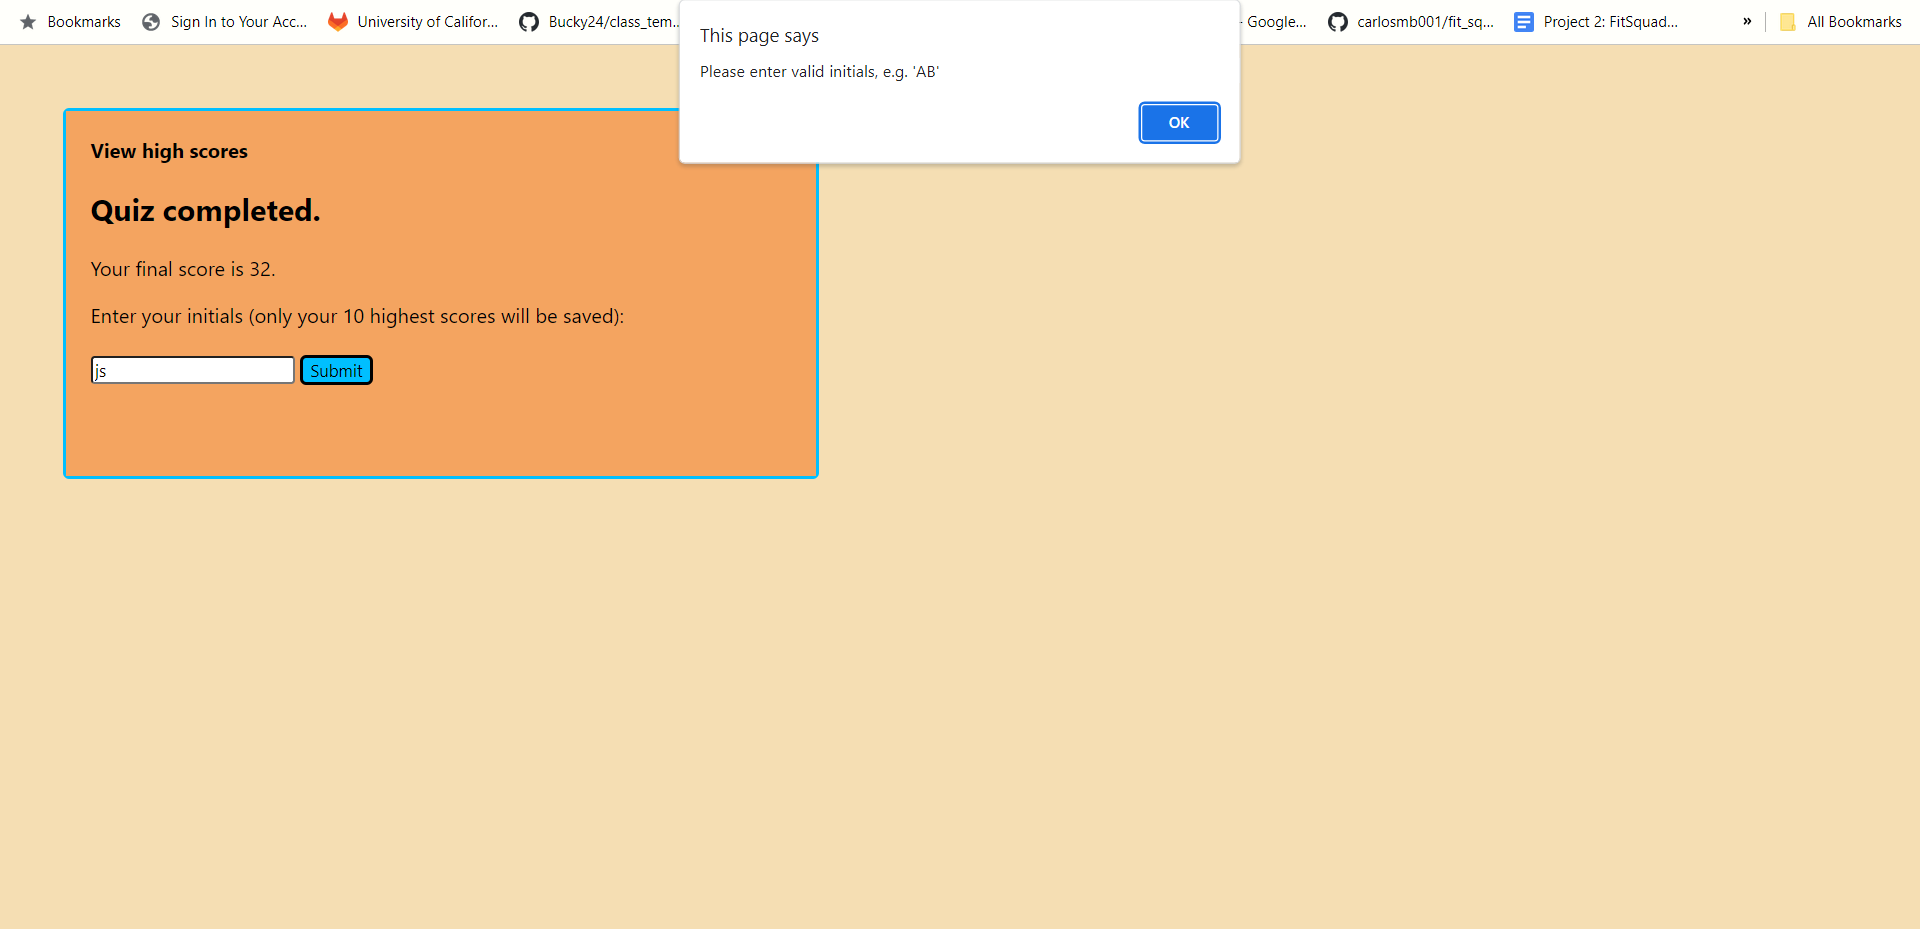
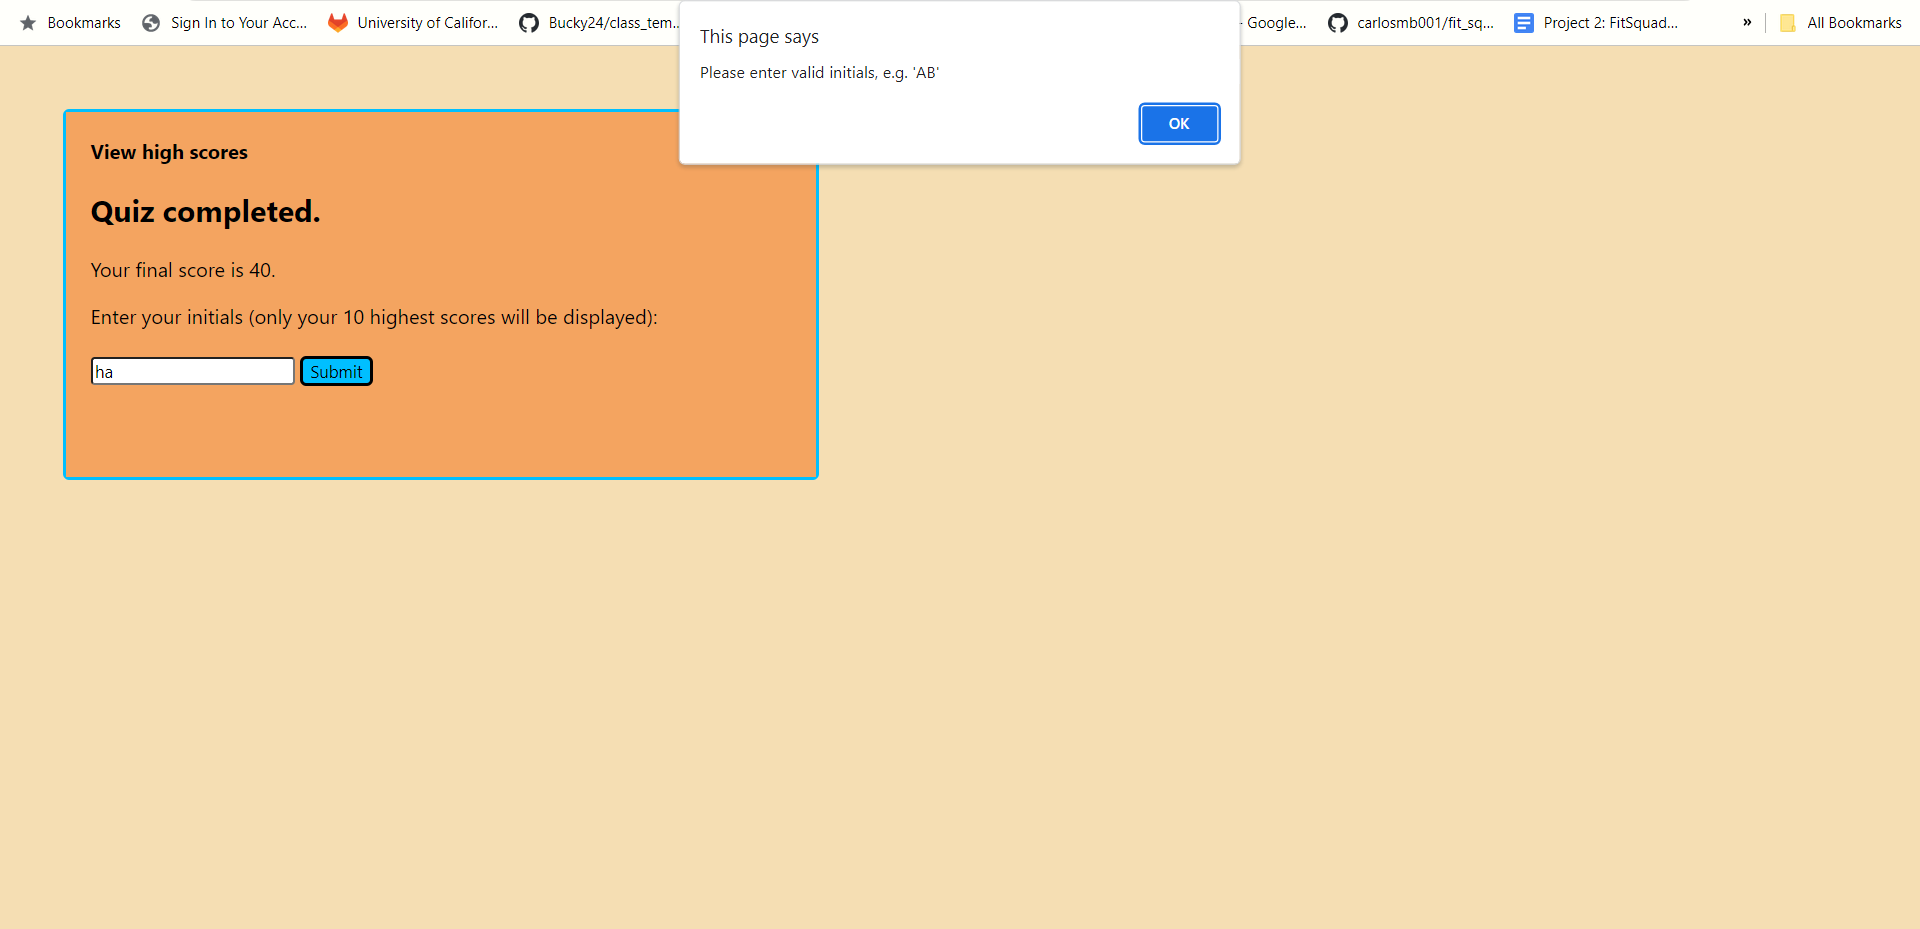
edited readme and form label

diff --git a/Assets/script.js b/Assets/script.js
@@ -247,7 +247,7 @@ var scoreContainers = [score1, score2, score3, score4, score5, score6, score7, s
 
 function checkKeyFormat(key) {
     var keyRegex = /^[A-Za-z]{2}\s-\s[A-Za-z]{3}\s[A-Za-z]{3}\s\d{2}\s\d{4}\s\d{2}:\d{2}:\d{2}\s[A-Za-z]{3}-\d{4}$/;
-    // this regex was generated using this website: https://regex-generator.olafneumann.org/?sampleText=2020-03-12T13%3A34%3A56.123Z%20INFO%20%20%5Borg.example.Class%5D%3A%20This%20is%20a%20%23simple%20%23logline%20containing%20a%20%27value%27.&flags=i
+    // this regex was generated using this website: https://regex-generator.olafneumann.org/?sampleText=2020-03-12T13%3A34%3A56.123Z%20INFO&flags=i
     // it is meant to fit the format of strings such as 'AB - Thu Sep 28 2023 14:33:55 GMT-0700'
     var match = key.match(keyRegex);
     if (!match) { // if the localStorage key does not match keyRegex

diff --git a/index.html b/index.html
@@ -54,7 +54,7 @@
         </div>
         <div id="submit-score">
             <form name="submitInitials" id="submit-initials" method="post">
-                <label for="initials">Enter your initials (only your 10 highest scores will be saved):</label><br><br>
+                <label for="initials">Enter your initials (only your 10 highest scores will be displayed):</label><br><br>
                 <input type="text" id="initials" name="initials" value="AB">
                 <input type="submit" id="high-scores-btn" value="Submit">
             </form>

diff --git a/README.md b/README.md
@@ -1,7 +1,7 @@
 # Challenge 4: Timed JavaScript Quiz
 
 ## Description
-When you are learning a new skill, it is important to test your knowledge with questions about fundamental concepts. Doing so will help solidify the ideas in your mind and make you more familiar with the topic as a whole. This quiz tests your JavaScript knowledge by asking you 10 questions about methods and concepts you are likely to see and use. After you completed the quiz, you can choose to save your score, which is higher the faster you complete the quiz and the fewer mistakes you make. This project taught me how to use setInterval() and setTimeout(), display only a certain part of the page, and iterate through localStorage to find certain data.
+When you are learning a new skill, it is important to test your knowledge with questions about fundamental concepts. Doing so will help you understand the ideas better and make you more familiar with the topic as a whole. This quiz tests your JavaScript knowledge by asking you 10 questions about methods and concepts you are likely to see and use. After you complete the quiz, you can choose to save your score, which is higher the faster you complete the quiz and the fewer mistakes you make. This project taught me how to use `setInterval()` and `setTimeout()`, display only a certain part of the page, and iterate through localStorage to find data.
 
 ## Table of Contents
 - [Description](#description)
@@ -17,25 +17,25 @@ When you are learning a new skill, it is important to test your knowledge with q
 No installation is required for this project.
 
 ## Usage
-Starting from the home page, you are provided with instructions on how to complete the quiz. From there, you can either view high scores, as shown in the header, or start the quiz:
+The application starts from the home page, where you are provided with instructions on how to complete the quiz. You can either view your current high scores or start the quiz:
 
 ![View high scores from home page](Assets/Images/home_page_with_high_scores_highlighted.png)
 ![Start quiz](Assets/Images/home_page_with_start_quiz_highlighted.png)
 
-Once you start the quiz, you can view the high scores while the quiz is in progress and it pauses the timer:
+Once you start the quiz, you are given 75 seconds to complete it, and you lose 5 seconds for each incorrect answer. You can view your high scores while the quiz is in progress. This action pauses the timer:
 
 ![View high scores from quiz page](Assets/Images/quiz_page_with_high_scores_highlighted.png)
 ![High scores page reached by pausing quiz](Assets/Images/high_scores_page_viewed_from_quiz.png)
 
-If you answer a question correctly, the status will show as `Correct` as shown here:
+If you answer a question correctly, it will be recorded with the message `Correct`:
 
 ![Correct status](Assets/Images/quiz_page_correct_status.png)
 
-If you answer a question incorrectly, the status will show as `Incorrect. You have lost 5 seconds.`
+If you answer a question incorrectly, it will be recorded with the message `Incorrect. You have lost 5 seconds.`:
 
 ![Incorrect status](Assets/Images/quiz_page_incorrect_status.png)
 
-Once you have completed the quiz, you will see the results screen:
+Once you have completed the quiz, or the timer reaches 0, you will see the results screen:
 
 **If you have completed the quiz:**
 ![Quiz completed page full completion](Assets/Images/quiz_completed_page_yes_button_highlighted.png)
@@ -43,30 +43,35 @@ Once you have completed the quiz, you will see the results screen:
 **If you have not completed the quiz:**
 ![Quiz completed page partial completion](Assets/Images/quiz_completed_page_quiz_partially_completed.png)
 
-from there, you can choose whether or not you want to save your latest score. If you choose not to save your score, you will be taken to the high scores page, from which you can go back to the home page. If you choose to save your score, however, you will be presented with a form where you can enter your initials:
+From this page, you can decide if you want to save your latest score.
+
+If you select `No`, you will be taken to the high scores page, from which you can go back to the home page.
+If you select `Yes`, you will be presented with a form where you can enter your initials:
 
 ![Submit initials](Assets/Images/quiz_completed_page_submit_button_highlighted.png)
 
-However, if you say yes when asked if you want to save your score and then change your mind, you can get back to the home page by clicking `View high scores` in the header.
+However, if you select `Yes` and then change your mind, you can go back to the home page by clicking `View high scores` in the header.
 
-**Important:** you are required to enter two capital letters for your initials to be accepted. If you do not enter your initials correctly, the page will alert you:
+**Important:** You are required to enter two capital letters for your initials to be accepted. If you do not enter your initials correctly, the page will alert you:
 
-![Improper submission page alert](Assets/Images/quiz_completed_page_improper_input_alert.png)
+![Improper submission alert](Assets/Images/quiz_completed_page_improper_input_alert.png)
 
-which will then take you to the high scores page:
+After you enter your initials correctly, you will be taken to the high scores page:
 
 ![High scores page after submitting initials](Assets/Images/high_scores_page_clear_button_highlighted.png)
 
-**Important:** If you choose to save your high score but it is not in the top 10 saved scores, it will not show on the high scores page.
+**Important:** If you choose to save your high score but it is not one of the 10 highest scores, it will not show on the high scores page.
 
-Clicking on the `Clear all high scores from localStorage` button will remove all high scores from localStorage and the high scores page, as shown below:
+Clicking the `Clear all high scores from localStorage` button will remove all of your scores from localStorage and the high scores page:
 
 ![All high scores cleared](Assets/Images/high_scores_page_all_scores_cleared.png)
 
 The deployed application can be found [here](https://gimmekitties711.github.io/challenge_4-timed_javascript_quiz/).
 
 ## Credits
-Received assistance from AskBCS assistants Daniel and Mia, and from instructor Robbert Wijtman in the *#02-ask-the-class* Slack channel and office hours. The following web resources helped me write the code for this project:
+Received help from AskBCS assistants Daniel and Mia, and from instructor Robbert Wijtman in the *#02-ask-the-class* Slack channel and office hours.
+
+The following web resources helped me write the code for this project:
 
 1. [How to write forms](https://www.w3schools.com/html/html_forms.asp)
 2. [How to write forms that submit data and move to a different page](https://www.quora.com/How-can-I-create-a-HTML-button-that-submits-and-goes-to-the-next-page)
@@ -74,8 +79,8 @@ Received assistance from AskBCS assistants Daniel and Mia, and from instructor R
 4. [Stack Overflow: How to use setInterval() to create a countdown](https://stackoverflow.com/questions/31106189/create-a-simple-10-second-countdown)
 5. [Validating form input](https://www.w3schools.com/js/js_validation.asp)
 6. [Using match() to check if a string matches a regex](https://developer.mozilla.org/en-US/docs/Web/JavaScript/Reference/Global_Objects/String/match)
-7. [Regex generator](https://regex-generator.olafneumann.org/?sampleText=2020-03-12T13%3A34%3A56.123Z%20INFO%20%20%5Borg.example.Class%5D%3A%20This%20is%20a%20%23simple%20%23logline%20containing%20a%20%27value%27.&flags=i)
-8. [How to find a key that corresponds to a value in localStorage](https://stackoverflow.com/questions/12949723/html5-localstorage-getting-key-from-value)
+7. [Regex generator](https://regex-generator.olafneumann.org/?sampleText=2020-03-12T13%3A34%3A56.123Z%20INFO&flags=i)
+8. [Stack Overflow: How to find a key that corresponds to a value in localStorage](https://stackoverflow.com/questions/12949723/html5-localstorage-getting-key-from-value)
 9. [The includes() method](https://www.w3schools.com/jsref/jsref_includes_array.asp)
 10. [The substring() method](https://www.w3schools.com/jsref/jsref_substring.asp)
 11. [Stack Overflow: How to sort an array of integers numerically](https://stackoverflow.com/questions/1063007/how-to-sort-an-array-of-integers-correctly)
@@ -87,7 +92,7 @@ Received assistance from AskBCS assistants Daniel and Mia, and from instructor R
 17. [How to set style properties in JavaScript](https://www.w3schools.com/jsref/prop_html_style.asp)
 
 ## Contributing
-This project does not yet have the functionality to delete a specific high score and have the new top 10 scores reloaded with every deletion. If someone could help me implement this feature, that would be greatly appreciated.
+It is currently not possible to delete an individual high score and have the new top 10 scores displayed after every deletion. If anyone could help me implement this feature, it would be greatly appreciated.
 
 ## Tests
 No tests have been written for this application.
